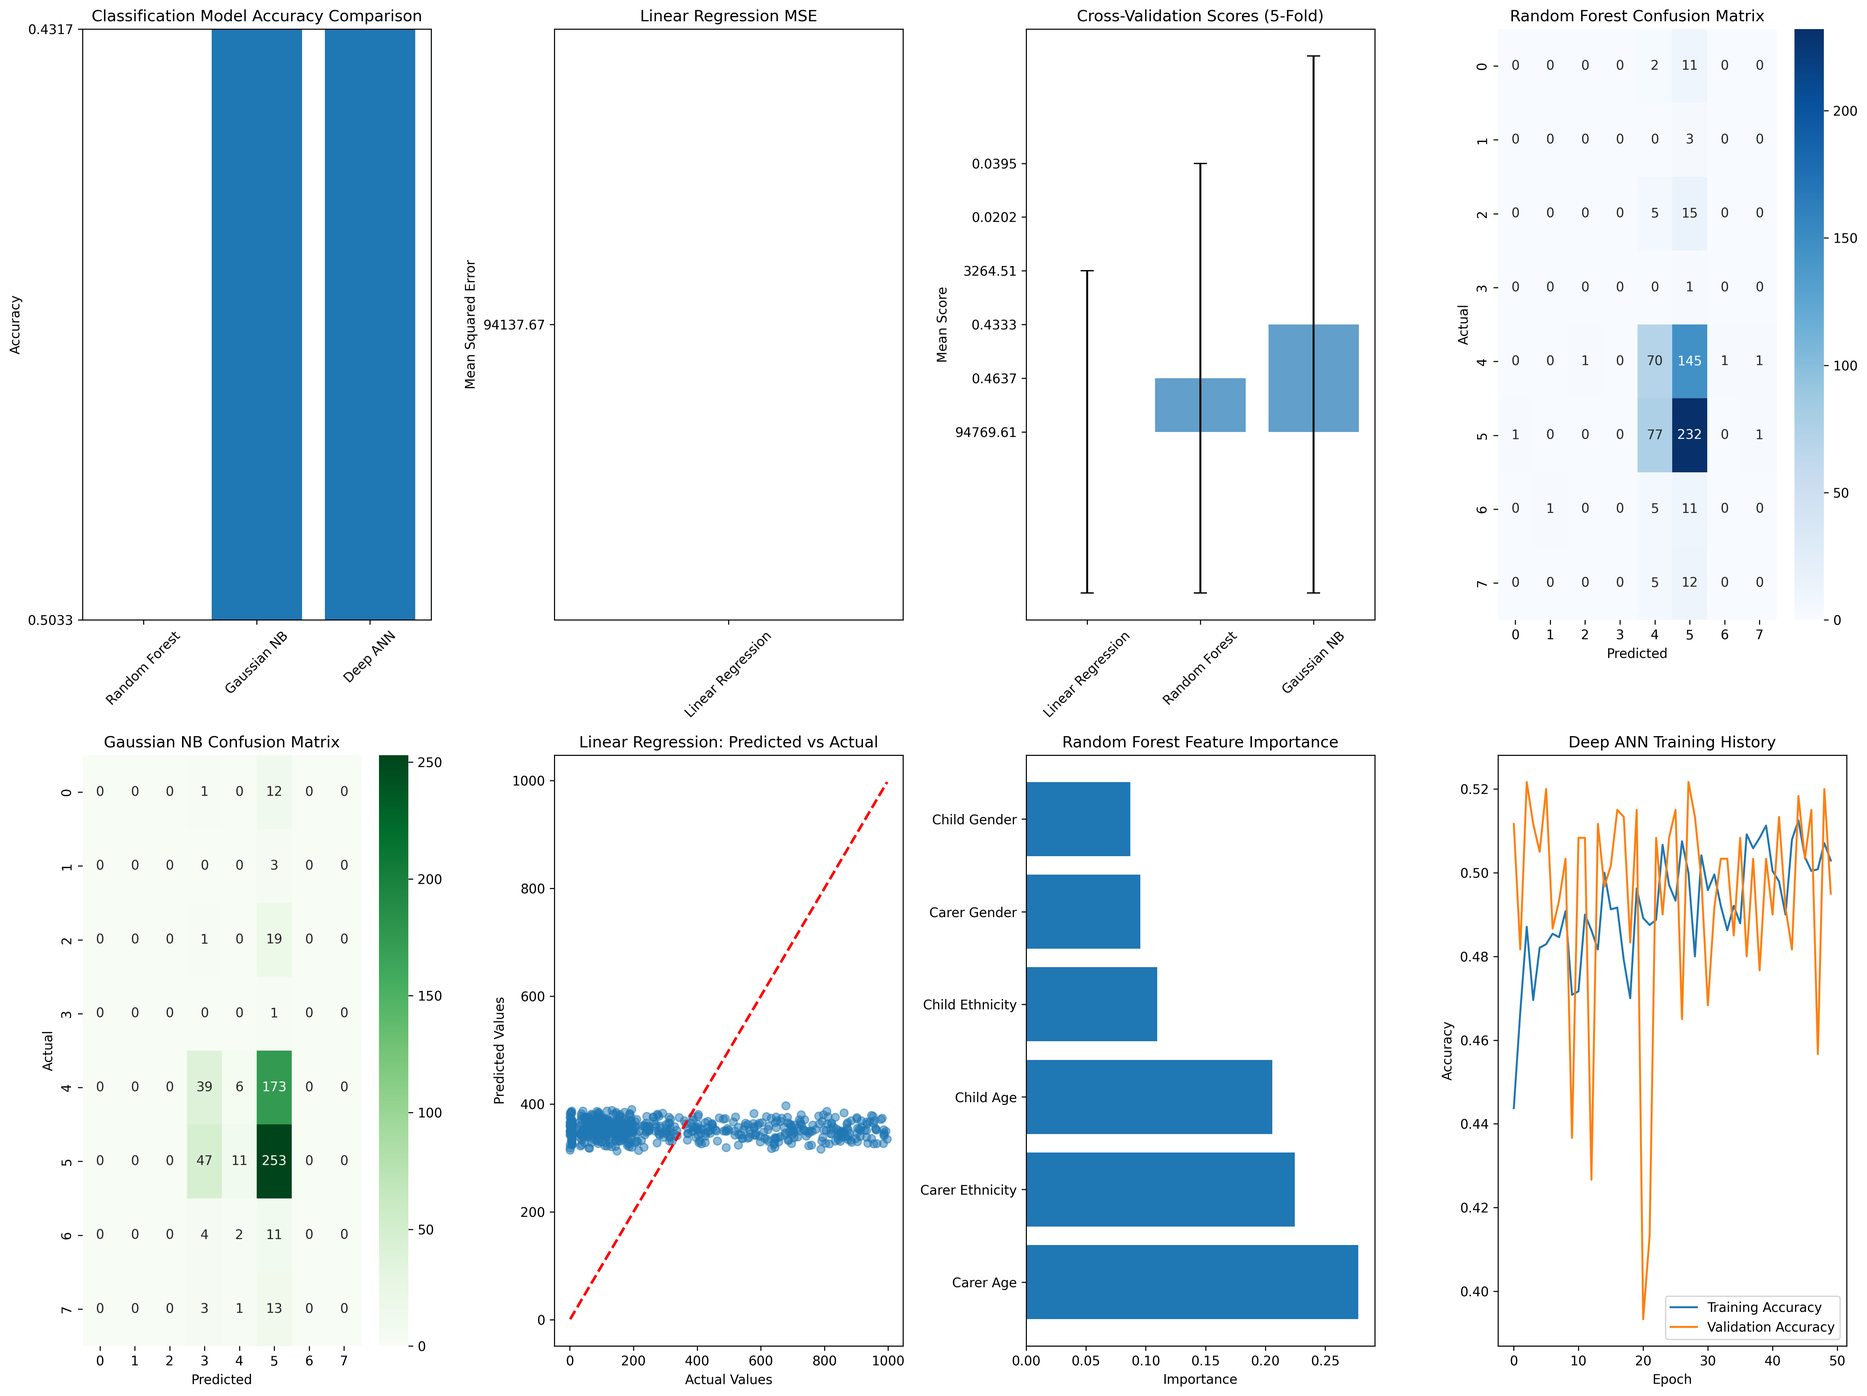
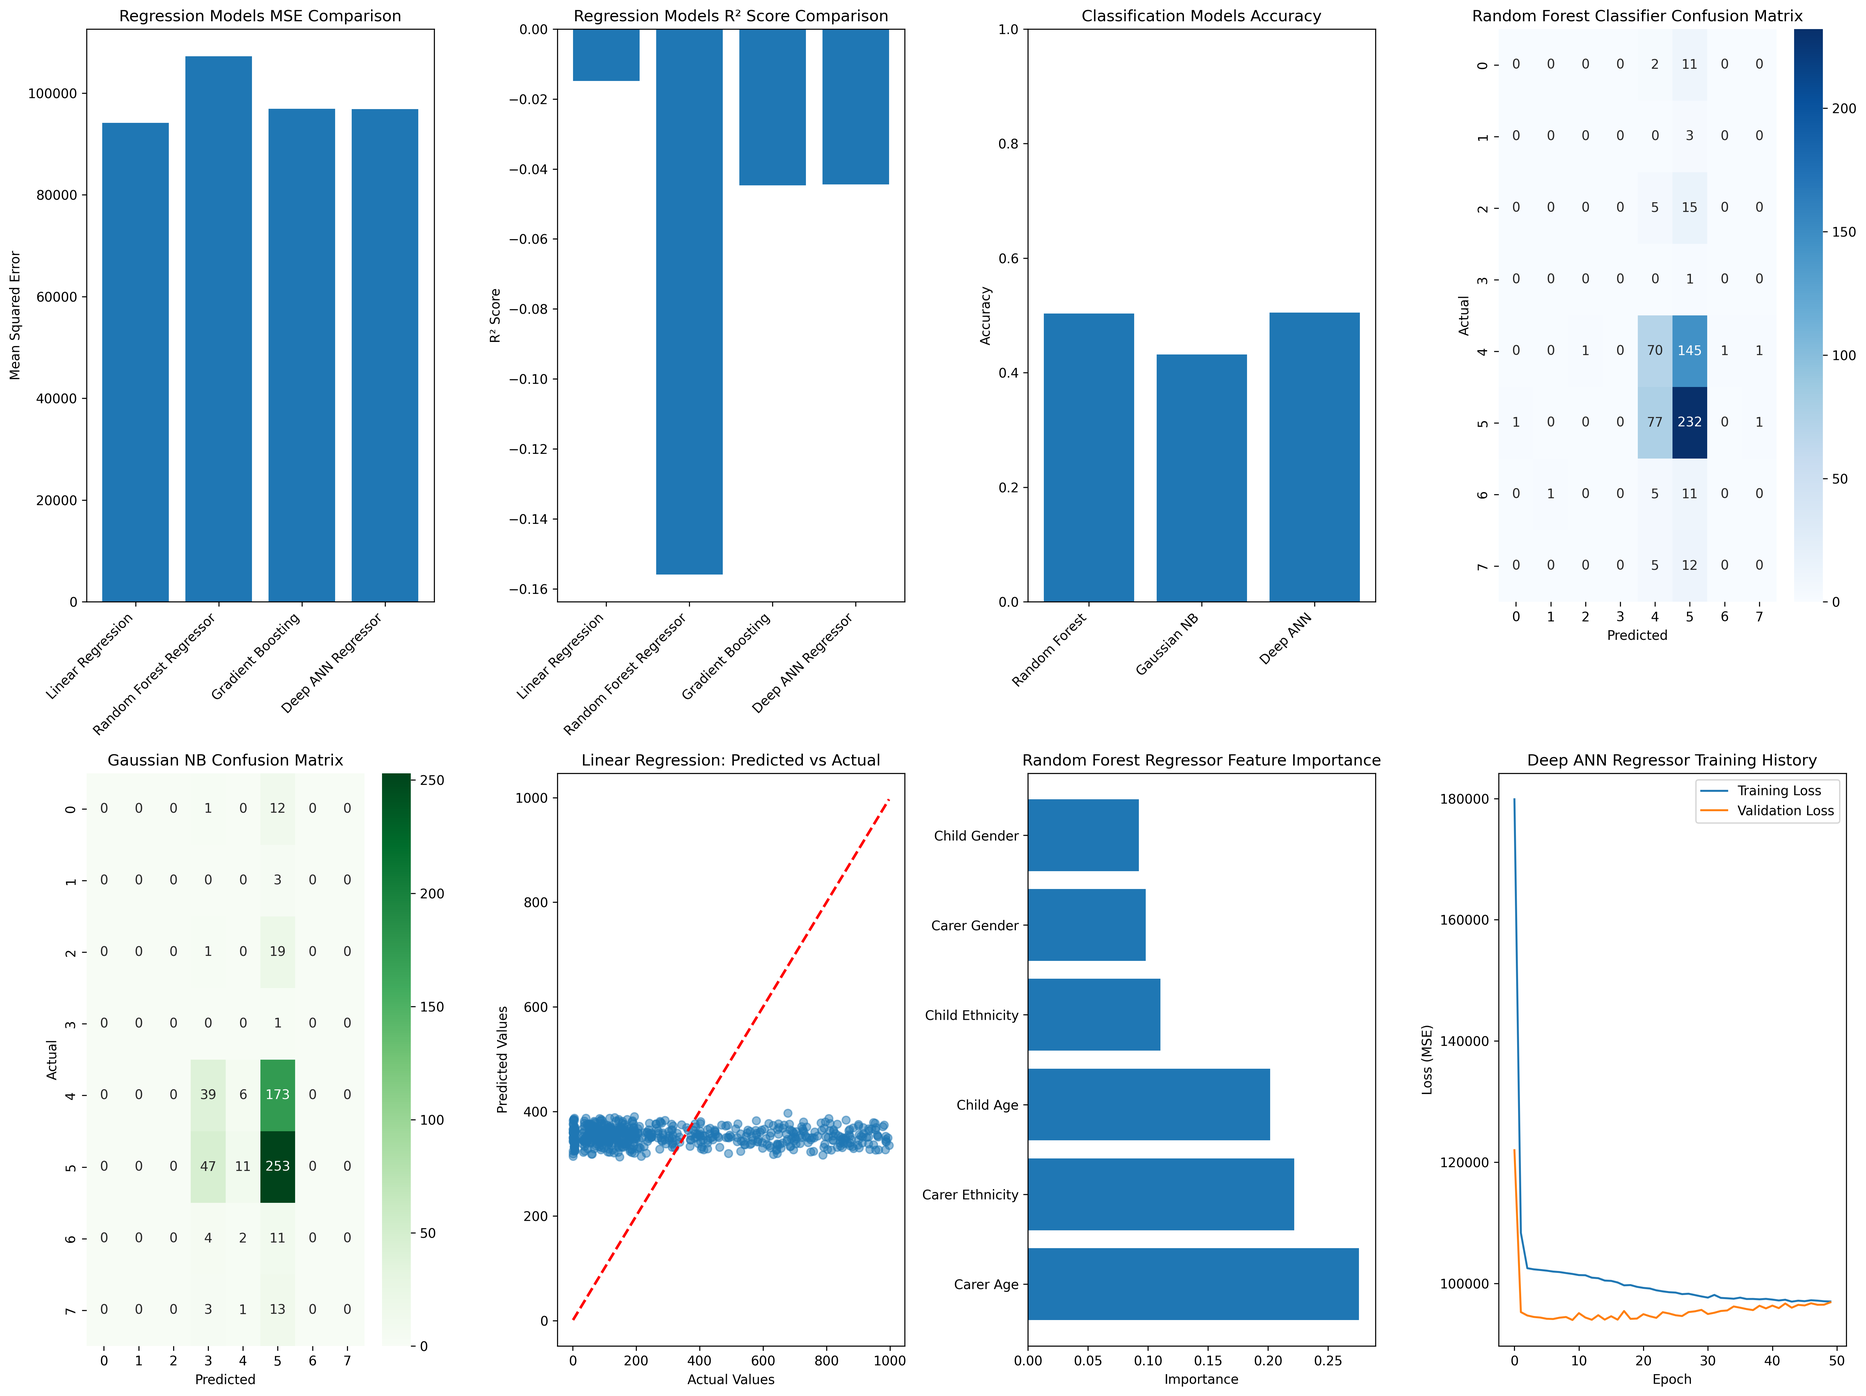
Updating ai model planning script

diff --git a/ai_model_planning.py b/ai_model_planning.py
@@ -187,46 +187,45 @@ Enter the number corresponding to your choice: """
     else:
         print("Invalid choice. Please select a valid model number.")
 
-def create_comparison_visualizations(metrics_df, rf_model, gnb_model, lr_model,
+def create_comparison_visualizations(regression_metrics, classification_metrics,
+                                     lr_model, rf_reg_model, gb_model, ann_reg_model,
+                                     rf_class_model, gnb_model, ann_class_model,
                                      x_test, y_class_test, y_reg_test,
-                                     rf_pred, gnb_pred, lr_pred, ann_history,
-                                     model_results, sorted_results):
+                                     lr_test_pred, rf_reg_test_pred, gb_test_pred, ann_reg_test_pred,
+                                     rf_class_pred, gnb_pred,
+                                     ann_reg_history, ann_class_history,
+                                     duration_predictions, sorted_results):
     """Create visualizations for model comparison."""
 
     fig = plt.figure(figsize=(20, 15))
 
-    # 1. Accuracy Comparison (Classification Models)
+    # 1. Regression Model MSE Comparison
     plt.subplot(2, 4, 1)
-    accuracy_data = metrics_df[metrics_df['Accuracy'] != 'N/A']
-    plt.bar(accuracy_data['Model'], accuracy_data['Accuracy'])
-    plt.title('Classification Model Accuracy Comparison')
+    plt.bar(regression_metrics['Model'], regression_metrics['MSE'])
+    plt.title('Regression Models MSE Comparison')
+    plt.ylabel('Mean Squared Error')
+    plt.xticks(rotation=45, ha='right')
+
+    # 2. Regression Model R² Comparison
+    plt.subplot(2, 4, 2)
+    plt.bar(regression_metrics['Model'], regression_metrics['R2_Score'])
+    plt.title('Regression Models R² Score Comparison')
+    plt.ylabel('R² Score')
+    plt.xticks(rotation=45, ha='right')
+
+    # 3. Classification Model Accuracy Comparison
+    plt.subplot(2, 4, 3)
+    plt.bar(classification_metrics['Model'], classification_metrics['Accuracy'])
+    plt.title('Classification Models Accuracy')
     plt.ylabel('Accuracy')
-    plt.xticks(rotation=45)
+    plt.xticks(rotation=45, ha='right')
     plt.ylim(0, 1)
 
-    # 2. MSE Comparison (Regression Model)
-    plt.subplot(2, 4, 2)
-    mse_data = metrics_df[metrics_df['MSE'] != 'N/A']
-    plt.bar(mse_data['Model'], mse_data['MSE'])
-    plt.title('Linear Regression MSE')
-    plt.ylabel('Mean Squared Error')
-    plt.xticks(rotation=45)
-
-    # 3. Cross-Validation Scores
-    plt.subplot(2, 4, 3)
-    cv_data = metrics_df[metrics_df['Cross_Val_Mean'] != 'N/A']
-    x_pos = np.arange(len(cv_data))
-    plt.bar(x_pos, cv_data['Cross_Val_Mean'], yerr=cv_data['Cross_Val_Std'],
-            capsize=5, alpha=0.7)
-    plt.xticks(x_pos, cv_data['Model'], rotation=45)
-    plt.title('Cross-Validation Scores (5-Fold)')
-    plt.ylabel('Mean Score')
-
-    # 4. Confusion Matrix - Random Forest
+    # 4. Confusion Matrix - Random Forest Classifier
     plt.subplot(2, 4, 4)
-    cm_rf = confusion_matrix(y_class_test, rf_pred)
+    cm_rf = confusion_matrix(y_class_test, rf_class_pred)
     sns.heatmap(cm_rf, annot=True, fmt='d', cmap='Blues')
-    plt.title('Random Forest Confusion Matrix')
+    plt.title('Random Forest Classifier Confusion Matrix')
     plt.ylabel('Actual')
     plt.xlabel('Predicted')
 
@@ -240,31 +239,31 @@ def create_comparison_visualizations(metrics_df, rf_model, gnb_model, lr_model,
 
     # 6. Linear Regression: Predicted vs Actual
     plt.subplot(2, 4, 6)
-    plt.scatter(y_reg_test, lr_pred, alpha=0.5)
+    plt.scatter(y_reg_test, lr_test_pred, alpha=0.5)
     plt.plot([y_reg_test.min(), y_reg_test.max()],
              [y_reg_test.min(), y_reg_test.max()], 'r--', lw=2)
     plt.xlabel('Actual Values')
     plt.ylabel('Predicted Values')
     plt.title('Linear Regression: Predicted vs Actual')
 
-    # 7. Feature Importance (Random Forest)
+    # 7. Feature Importance (Random Forest Regressor)
     plt.subplot(2, 4, 7)
     feature_names = ["Child Age", "Child Gender", "Child Ethnicity",
                      "Carer Age", "Carer Gender", "Carer Ethnicity"]
-    importances = rf_model.feature_importances_
+    importances = rf_reg_model.feature_importances_
     indices = np.argsort(importances)[::-1]
     plt.barh(range(len(importances)), importances[indices])
     plt.yticks(range(len(importances)), [feature_names[i] for i in indices])
     plt.xlabel('Importance')
-    plt.title('Random Forest Feature Importance')
+    plt.title('Random Forest Regressor Feature Importance')
 
     # 8. Deep ANN Training History
     plt.subplot(2, 4, 8)
-    plt.plot(ann_history.history['accuracy'], label='Training Accuracy')
-    plt.plot(ann_history.history['val_accuracy'], label='Validation Accuracy')
+    plt.plot(ann_reg_history.history['loss'], label='Training Loss')
+    plt.plot(ann_reg_history.history['val_loss'], label='Validation Loss')
     plt.xlabel('Epoch')
-    plt.ylabel('Accuracy')
-    plt.title('Deep ANN Training History')
+    plt.ylabel('Loss (MSE)')
+    plt.title('Deep ANN Regressor Training History')
     plt.legend()
 
     plt.tight_layout()
@@ -273,21 +272,28 @@ def create_comparison_visualizations(metrics_df, rf_model, gnb_model, lr_model,
     plt.show()
 
     # 9. Placement Type Predictions by Model
-    plt.subplot(3, 3, 9)
+    fig, ax = plt.subplots(figsize=(14, 7))
     placement_names = [p[0] for p in sorted_results]
-    models = ['LR', 'RF', 'GNB', 'ANN']
+    models = ['LR', 'RF', 'GB', 'ANN']
     x_pos = np.arange(len(placement_names))
     width = 0.2
 
+    # Get predictions for each model and placement type
     for i, model_name in enumerate(models):
-        predictions = [model_results[ptype][i][1] for ptype in placement_names]
-        plt.bar(x_pos + i * width, predictions, width, label=model_name)
+        predictions = []
+        for ptype in placement_names:
+            pred_value = duration_predictions[ptype][model_name]
+            predictions.append(pred_value)
 
-    plt.xlabel('Placement Type')
-    plt.ylabel('Predicted Days')
-    plt.title('Model Predictions by Placement Type')
-    plt.xticks(x_pos + width * 1.5, placement_names, rotation=45, ha='right')
-    plt.legend()
+        ax.bar(x_pos + i * width, predictions, width, label=model_name)
+
+    ax.set_xlabel('Placement Type', fontsize=11, fontweight='bold')
+    ax.set_ylabel('Predicted Days', fontsize=11, fontweight='bold')
+    ax.set_title('Model Predictions by Placement Type', fontsize=13, fontweight='bold')
+    ax.set_xticks(x_pos + width * 1.5)
+    ax.set_xticklabels(placement_names, rotation=45, ha='right', fontsize=10)
+    ax.legend(loc='upper left', bbox_to_anchor=(1.0, 1.0), fontsize=10)
+    ax.grid(axis='y', alpha=0.3)
 
     plt.tight_layout()
     plt.savefig('placement_type_predictions.png', dpi=300, bbox_inches='tight')
@@ -295,8 +301,10 @@ def create_comparison_visualizations(metrics_df, rf_model, gnb_model, lr_model,
     plt.show()
 
 def compare_models():
-    """Compare models across selected placement types with comprehensive metrics and visualizations."""
-    # Keep your existing placement type selection logic
+    """The purpose of this method is to enter between 2 and 4 placement types to compare and
+        also some example input data (for x labels) and then order the placement types by most to least stable
+        according to the models and by using the average placement time period predicted by the models
+        for each placement type chosen by the user."""
     print("First choose the placement types to compare:")
     placement_types = ["Fostering - Long Term", "Fostering - Short Term", "Kinship", "Residential",
                        "Special Guardianship", "Fostering - Emergency", "Fostering - Respite", "Adoption"]
@@ -320,7 +328,6 @@ def compare_models():
             selected_type = placement_types[p_choice - 1]
             selected_types.append(selected_type)
 
-    # Keep your existing user input logic
     print("Now enter example input data for the features:")
     childAge = input("Enter the Child's Age At Placement: ")
     childGender = input("Enter the Child's Gender: ")
@@ -360,107 +367,156 @@ def compare_models():
         x, y_regression, test_size=0.2, random_state=42
     )
 
-    # Train models once and collect metrics
     print("\n=== Training Models ===")
 
-    # Linear Regression
-    print("Training Linear Regression...")
+    # Train REGRESSION models for duration prediction
+    print("Training Duration Prediction Models...")
+
+    # Linear Regression for duration
     lr_model = LinearRegression()
     lr_model.fit(x_train, y_reg_train)
     lr_test_pred = lr_model.predict(x_test)
     lr_mse = mean_squared_error(y_reg_test, lr_test_pred)
     lr_mae = mean_absolute_error(y_reg_test, lr_test_pred)
     lr_r2 = r2_score(y_reg_test, lr_test_pred)
-    lr_cv = cross_val_score(lr_model, x_train, y_reg_train, cv=5, scoring='neg_mean_squared_error')
 
-    # Random Forest
-    print("Training Random Forest...")
-    rf_model = RandomForestClassifier(n_estimators=100, random_state=42)
-    rf_model.fit(x_train, y_class_train)
-    rf_test_pred = rf_model.predict(x_test)
-    rf_accuracy = accuracy_score(y_class_test, rf_test_pred)
-    rf_cv = cross_val_score(rf_model, x_train, y_class_train, cv=5, scoring='accuracy')
+    # Random Forest REGRESSOR for duration
+    from sklearn.ensemble import RandomForestRegressor
+    rf_reg_model = RandomForestRegressor(n_estimators=100, random_state=42)
+    rf_reg_model.fit(x_train, y_reg_train)
+    rf_reg_test_pred = rf_reg_model.predict(x_test)
+    rf_reg_mse = mean_squared_error(y_reg_test, rf_reg_test_pred)
+    rf_reg_mae = mean_absolute_error(y_reg_test, rf_reg_test_pred)
+    rf_reg_r2 = r2_score(y_reg_test, rf_reg_test_pred)
+
+    # Gradient Boosting for duration
+    from sklearn.ensemble import GradientBoostingRegressor
+    gb_model = GradientBoostingRegressor(n_estimators=100, random_state=42)
+    gb_model.fit(x_train, y_reg_train)
+    gb_test_pred = gb_model.predict(x_test)
+    gb_mse = mean_squared_error(y_reg_test, gb_test_pred)
+    gb_mae = mean_absolute_error(y_reg_test, gb_test_pred)
+    gb_r2 = r2_score(y_reg_test, gb_test_pred)
+
+    # Deep ANN for duration (regression)
+    ann_reg_model = Sequential([
+        Dense(64, activation='relu', input_shape=(x.shape[1],)),
+        Dense(32, activation='relu'),
+        Dense(1)  # Single output for regression
+    ])
+    ann_reg_model.compile(optimizer='adam', loss='mse', metrics=['mae'])
+    ann_reg_history = ann_reg_model.fit(x_train, y_reg_train, epochs=50, batch_size=32,
+                                        validation_data=(x_test, y_reg_test), verbose=0)
+    ann_reg_test_pred = ann_reg_model.predict(x_test, verbose=0).flatten()
+    ann_reg_mse = mean_squared_error(y_reg_test, ann_reg_test_pred)
+    ann_reg_mae = mean_absolute_error(y_reg_test, ann_reg_test_pred)
+    ann_reg_r2 = r2_score(y_reg_test, ann_reg_test_pred)
+
+    # Train CLASSIFICATION models for placement type
+    print("Training Placement Type Classification Models...")
+
+    # Random Forest Classifier
+    rf_class_model = RandomForestClassifier(n_estimators=100, random_state=42)
+    rf_class_model.fit(x_train, y_class_train)
+    rf_class_pred = rf_class_model.predict(x_test)
+    rf_class_accuracy = accuracy_score(y_class_test, rf_class_pred)
 
     # Gaussian Naive Bayes
-    print("Training Gaussian Naive Bayes...")
     gnb_model = GaussianNB()
     gnb_model.fit(x_train, y_class_train)
-    gnb_test_pred = gnb_model.predict(x_test)
-    gnb_accuracy = accuracy_score(y_class_test, gnb_test_pred)
-    gnb_cv = cross_val_score(gnb_model, x_train, y_class_train, cv=5, scoring='accuracy')
+    gnb_pred = gnb_model.predict(x_test)
+    gnb_accuracy = accuracy_score(y_class_test, gnb_pred)
 
-    # Deep ANN
-    print("Training Deep ANN...")
+    # Deep ANN for classification
     num_classes = len(np.unique(y_classification))
     y_train_cat = to_categorical(y_class_train, num_classes)
     y_test_cat = to_categorical(y_class_test, num_classes)
 
-    ann_model = Sequential([
+    ann_class_model = Sequential([
         Dense(64, activation='relu', input_shape=(x.shape[1],)),
         Dense(32, activation='relu'),
         Dense(num_classes, activation='softmax')
     ])
-    ann_model.compile(optimizer='adam', loss='categorical_crossentropy', metrics=['accuracy'])
-    history = ann_model.fit(x_train, y_train_cat, epochs=50, batch_size=32,
-                           validation_data=(x_test, y_test_cat), verbose=0)
-    _, ann_accuracy = ann_model.evaluate(x_test, y_test_cat, verbose=0)
-    ann_test_pred = np.argmax(ann_model.predict(x_test, verbose=0), axis=1)
+    ann_class_model.compile(optimizer='adam', loss='categorical_crossentropy', metrics=['accuracy'])
+    ann_class_history = ann_class_model.fit(x_train, y_train_cat, epochs=50, batch_size=32,
+                                           validation_data=(x_test, y_test_cat), verbose=0)
+    _, ann_class_accuracy = ann_class_model.evaluate(x_test, y_test_cat, verbose=0)
 
-    # Create metrics DataFrame
-    metrics_df = pd.DataFrame({
-        'Model': ['Linear Regression', 'Random Forest', 'Gaussian NB', 'Deep ANN'],
-        'Accuracy': ['N/A', f'{rf_accuracy:.4f}', f'{gnb_accuracy:.4f}', f'{ann_accuracy:.4f}'],
-        'MSE': [f'{lr_mse:.2f}', 'N/A', 'N/A', 'N/A'],
-        'MAE': [f'{lr_mae:.2f}', 'N/A', 'N/A', 'N/A'],
-        'R2_Score': [f'{lr_r2:.4f}', 'N/A', 'N/A', 'N/A'],
-        'Cross_Val_Mean': [f'{-lr_cv.mean():.2f}', f'{rf_cv.mean():.4f}', f'{gnb_cv.mean():.4f}', 'N/A'],
-        'Cross_Val_Std': [f'{lr_cv.std():.2f}', f'{rf_cv.std():.4f}', f'{gnb_cv.std():.4f}', 'N/A']
+    # Create separate metrics DataFrames
+    regression_metrics = pd.DataFrame({
+        'Model': ['Linear Regression', 'Random Forest Regressor', 'Gradient Boosting', 'Deep ANN Regressor'],
+        'MSE': [lr_mse, rf_reg_mse, gb_mse, ann_reg_mse],
+        'MAE': [lr_mae, rf_reg_mae, gb_mae, ann_reg_mae],
+        'R2_Score': [lr_r2, rf_reg_r2, gb_r2, ann_reg_r2]
     })
 
-    print("\n=== Model Comparison Statistics ===")
-    print(metrics_df.to_string(index=False))
+    classification_metrics = pd.DataFrame({
+        'Model': ['Random Forest', 'Gaussian NB', 'Deep ANN'],
+        'Accuracy': [rf_class_accuracy, gnb_accuracy, ann_class_accuracy]
+    })
+
+    print("\n=== Duration Prediction Models (Regression) ===")
+    print(regression_metrics.to_string(index=False))
+    print("\n=== Placement Type Models (Classification) ===")
+    print(classification_metrics.to_string(index=False))
 
     # Make predictions for selected placement types
-    model_results = {ptype: [] for ptype in selected_types}
+    duration_predictions = {}
+    placement_predictions = {}
+
     for ptype in selected_types:
-        modified_data = example_data_np.copy()
+        # Predict DURATION (days) using regression models
+        lr_days = lr_model.predict(example_data_np)[0]
+        rf_days = rf_reg_model.predict(example_data_np)[0]
+        gb_days = gb_model.predict(example_data_np)[0]
+        ann_days = ann_reg_model.predict(example_data_np, verbose=0)[0][0]
 
-        lr_pred = lr_model.predict(modified_data)
-        model_results[ptype].append(('Linear Regression', lr_pred[0]))
+        duration_predictions[ptype] = {
+            'LR': lr_days,
+            'RF': rf_days,
+            'GB': gb_days,
+            'ANN': ann_days,
+            'Average': np.mean([lr_days, rf_days, gb_days, ann_days])
+        }
 
-        rf_pred = rf_model.predict(modified_data)
-        model_results[ptype].append(('Random Forest', rf_pred[0]))
+        # Predict PLACEMENT TYPE using classification models
+        rf_type = rf_class_model.predict(example_data_np)[0]
+        gnb_type = gnb_model.predict(example_data_np)[0]
+        ann_type = np.argmax(ann_class_model.predict(example_data_np, verbose=0), axis=1)[0]
 
-        gnb_pred = gnb_model.predict(modified_data)
-        model_results[ptype].append(('Gaussian NB', gnb_pred[0]))
+        placement_predictions[ptype] = {
+            'RF': rf_type,
+            'GNB': gnb_type,
+            'ANN': ann_type
+        }
 
-        ann_pred = ann_model.predict(modified_data, verbose=0)
-        ann_pred_class = np.argmax(ann_pred, axis=1)
-        model_results[ptype].append(('Deep ANN', ann_pred_class[0]))
+    # Sort by average duration
+    sorted_results = sorted(duration_predictions.items(),
+                           key=lambda x: x[1]['Average'],
+                           reverse=True)
 
-    # Calculate average predictions
-    average_results = {}
-    for ptype, predictions in model_results.items():
-        average_results[ptype] = np.mean([pred[1] for pred in predictions])
+    print("\n=== Placement Types Ordered by Average Predicted Duration ===")
+    for ptype, preds in sorted_results:
+        print(f"\n{ptype}:")
+        print(f"  LR: {preds['LR']:.2f} days")
+        print(f"  RF: {preds['RF']:.2f} days")
+        print(f"  GB: {preds['GB']:.2f} days")
+        print(f"  ANN: {preds['ANN']:.2f} days")
+        print(f"  Average: {preds['Average']:.2f} days")
 
-    sorted_results = sorted(average_results.items(), key=lambda item: item[1], reverse=True)
-    print("\n=== Placement Types Ordered by Predicted Stability ===")
-    for ptype, avg_time in sorted_results:
-        print(f"{ptype}: {avg_time:.2f} days")
-
-    # Create comprehensive visualizations
+    # Update visualization function call
     create_comparison_visualizations(
-        metrics_df, rf_model, gnb_model, lr_model,
+        regression_metrics, classification_metrics,
+        lr_model, rf_reg_model, gb_model, ann_reg_model,
+        rf_class_model, gnb_model, ann_class_model,
         x_test, y_class_test, y_reg_test,
-        rf_test_pred, gnb_test_pred, lr_test_pred,
-        history, model_results, sorted_results
+        lr_test_pred, rf_reg_test_pred, gb_test_pred, ann_reg_test_pred,
+        rf_class_pred, gnb_pred,
+        ann_reg_history, ann_class_history,
+        duration_predictions, sorted_results
     )
 
-    # Save metrics
-    metrics_df.to_csv('model_comparison_metrics.csv', index=False)
-    print("\nMetrics saved to 'model_comparison_metrics.csv'")
-
-    return metrics_df, model_results, sorted_results
+    return regression_metrics, classification_metrics, duration_predictions, placement_predictions
 
 if __name__ == "__main__":
     run_model()
